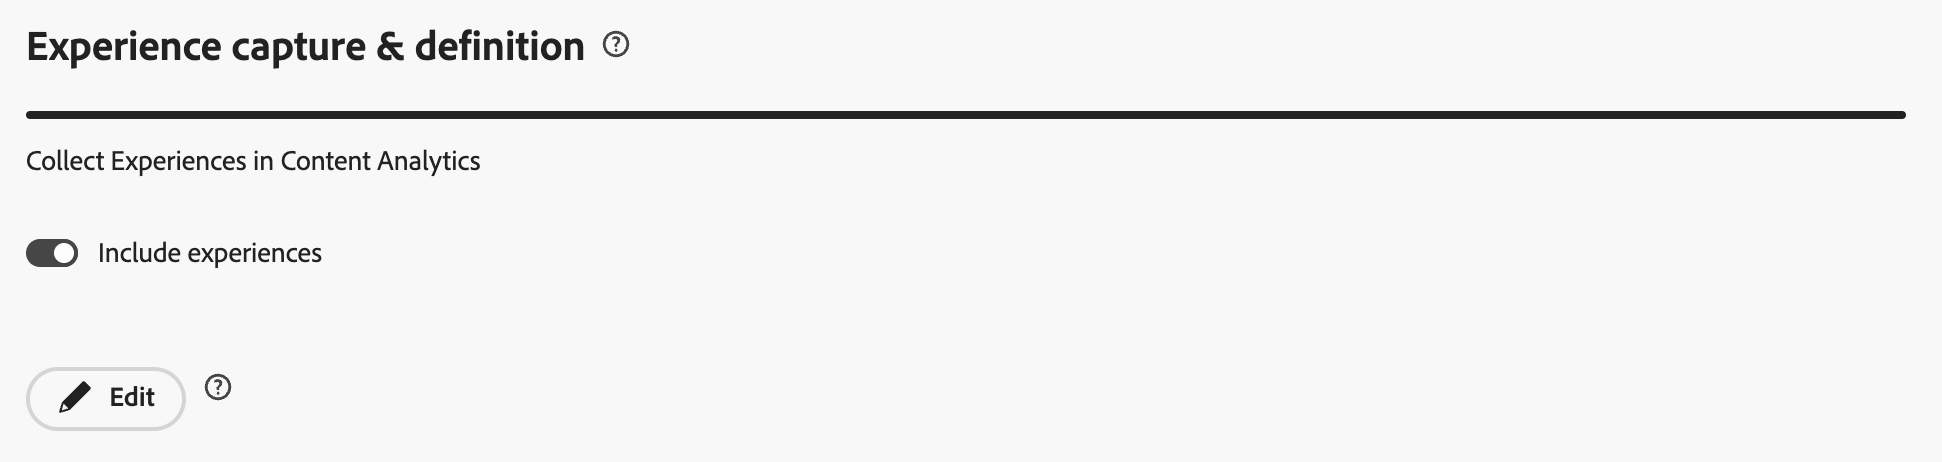
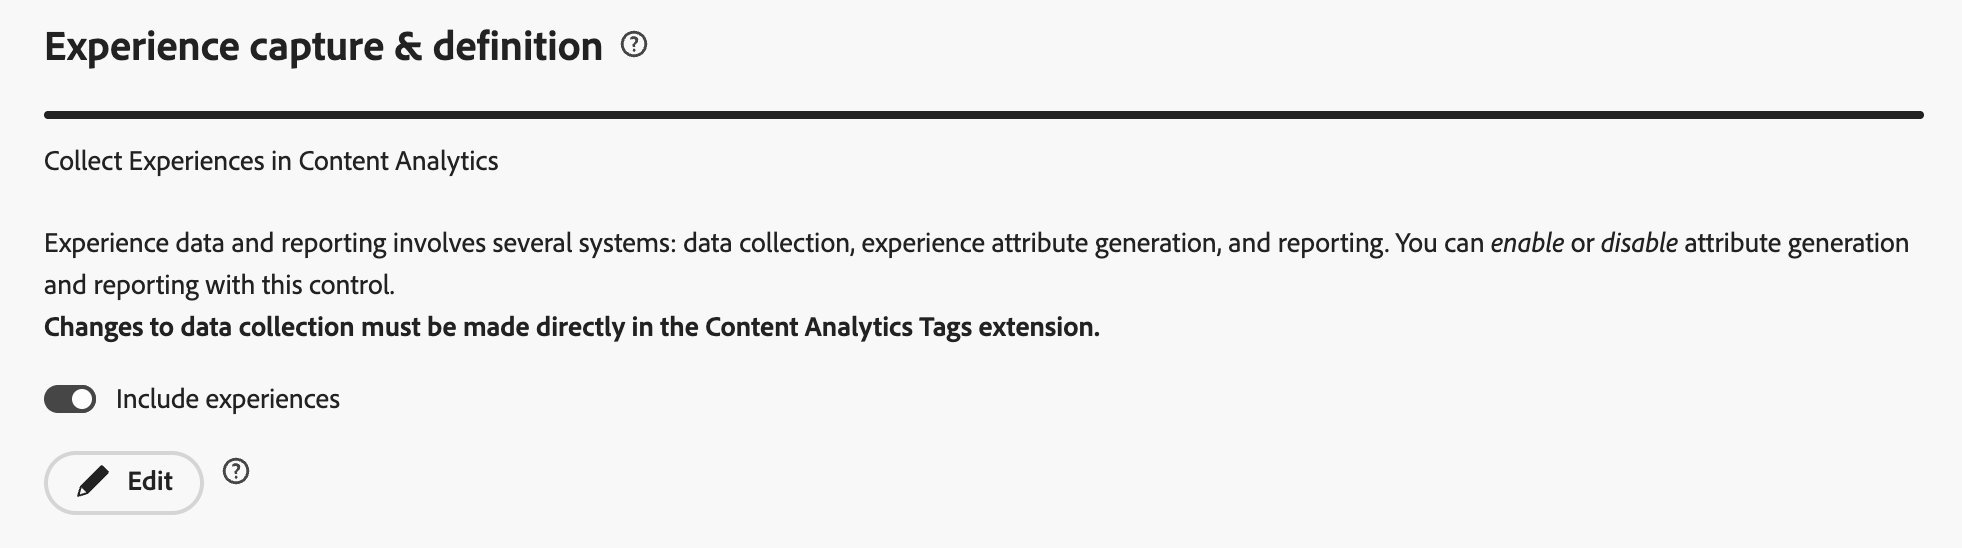
Updates on ACA

diff --git a/help/content-analytics/config/guided.md b/help/content-analytics/config/guided.md
@@ -197,7 +197,10 @@ To edit existing or include new Experiences in an implemented configuration:
 
 ![Content Analytics configuration Experience capture and definition](../assets/aca-configuration-experience-edit.png)
 
-* Toggle **[!UICONTROL Include experiences]** to enable or disable the availability of experience components, visualizations, panels and templates in Analysis Workspace. 
+* Toggle **[!UICONTROL Include experiences]**  to enable or disable:
+
+   * The process that generates experience attributes from Content Analytics event data 
+   * The reporting template in Customer Journey Analytics. 
    
 * Select ![Edit](/help/assets/icons/Edit.svg) **[!UICONTROL Edit]** to further edit the configuration of data collection for experiences in Content Analytics. You are redirected to the [Adobe Content Analytics extension](https://experienceleague.adobe.com/en/docs/experience-platform/tags/extensions/client/content-analytics/overview#configure-event-filtering) in the Tags property that is associated with the current configuration.
 
@@ -285,7 +288,7 @@ In a new configuration, you need to define whether you want to use an existing T
 
 >[!IMPORTANT]
 >
->In case you have an existing Web SDK implementation using Javascript, and not using Tags, you have to manually remove the automatic included Web SDK extension from the newly created Tags property.
+>In case you have an existing Web SDK implementation that uses the [Javascript library](https://experienceleague.adobe.com/en/docs/experience-platform/web-sdk/install/library), and not uses the [Tags extension](https://experienceleague.adobe.com/en/docs/experience-platform/tags/extensions/client/web-sdk/web-sdk-extension-configuration), you have to manually remove the automatic included Web SDK extension from the newly created Tags property.
 
 
 
